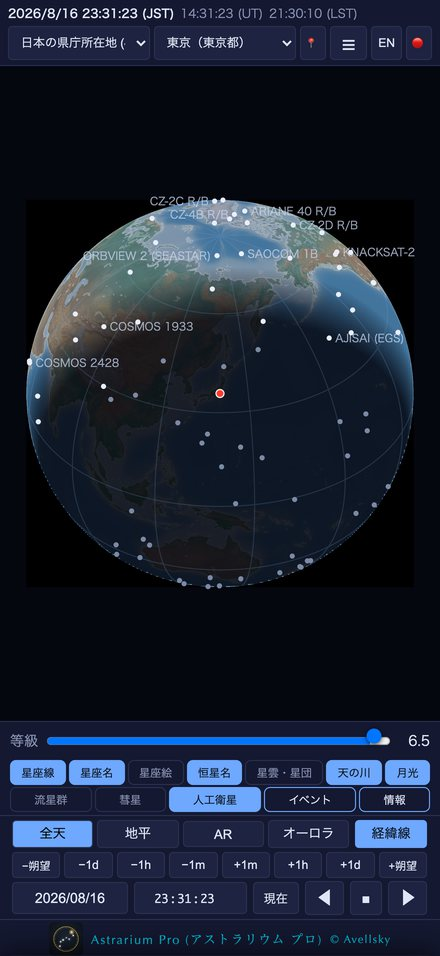
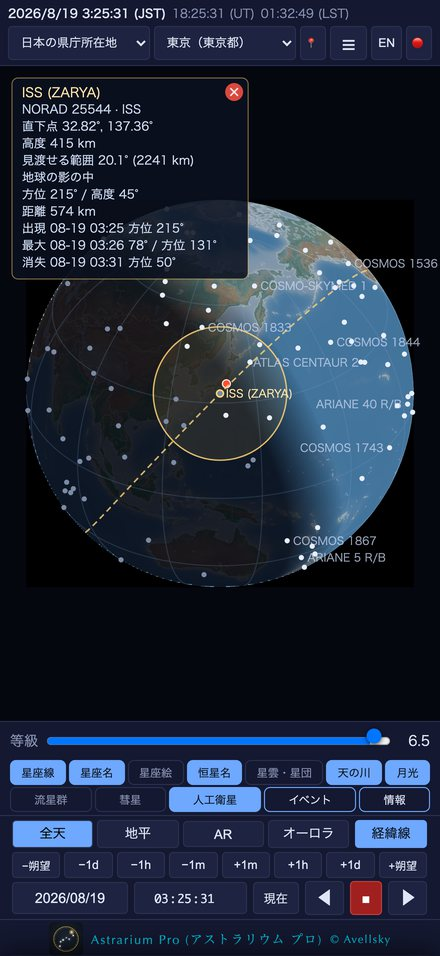
公開ページ: Pro の図を、いまのスクリーンショットに差し替える
人工衛星は ISS を選んだ地球儀 (地上軌跡と見渡せる範囲)、
オーロラはアビスコの全天を追加。

diff --git a/manual/index.html b/manual/index.html
@@ -130,13 +130,17 @@ Planisphere &amp; planetarium — user manual (for 1.2)</div>
 
 <div class="shots">
   <figure><img src="img/pro-satellites.jpg" alt="人工衛星（地球儀）" loading="lazy">
-    <figcaption>人工衛星 — 地球儀・世界地図・星図</figcaption></figure>
+    <figcaption>人工衛星 — ISS を選ぶと、地上軌跡と見渡せる範囲</figcaption></figure>
   <figure><img src="img/pro-aurora.jpg" alt="オーロラ帯" loading="lazy">
     <figcaption>オーロラ帯 — どこまで下がっているか</figcaption></figure>
   <figure><img src="img/pro-aurora-panel.jpg" alt="オーロラ予報" loading="lazy">
     <figcaption>オーロラ予報 — NASA DONKI と NOAA OVATION</figcaption></figure>
   <figure><img src="img/pro-ar.jpg" alt="AR" loading="lazy">
     <figcaption>AR — カメラ映像に星図を重ねる</figcaption></figure>
+  <figure><img src="img/pro-aurora-abisko.jpg" alt="アビスコのオーロラ"
+      loading="lazy">
+    <figcaption>Kp 3.8 のオーロラ — アビスコの全天（帯が頭の上へ回り込む）
+    </figcaption></figure>
   <figure><img src="img/pro-aurora-nayoro.jpg" alt="なよろから見たオーロラ"
       loading="lazy">
     <figcaption>Kp 9 のオーロラ — なよろから北の空（地平・方位 330〜50°）
